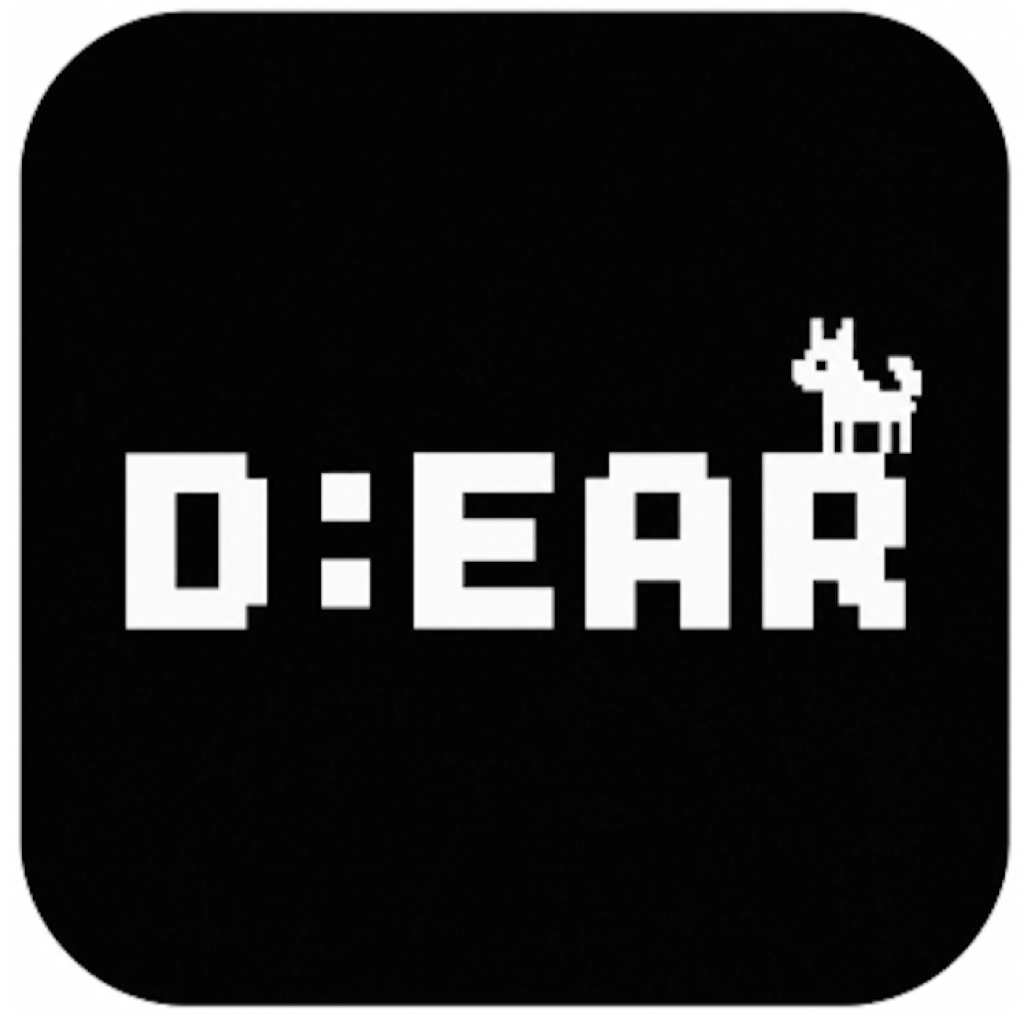
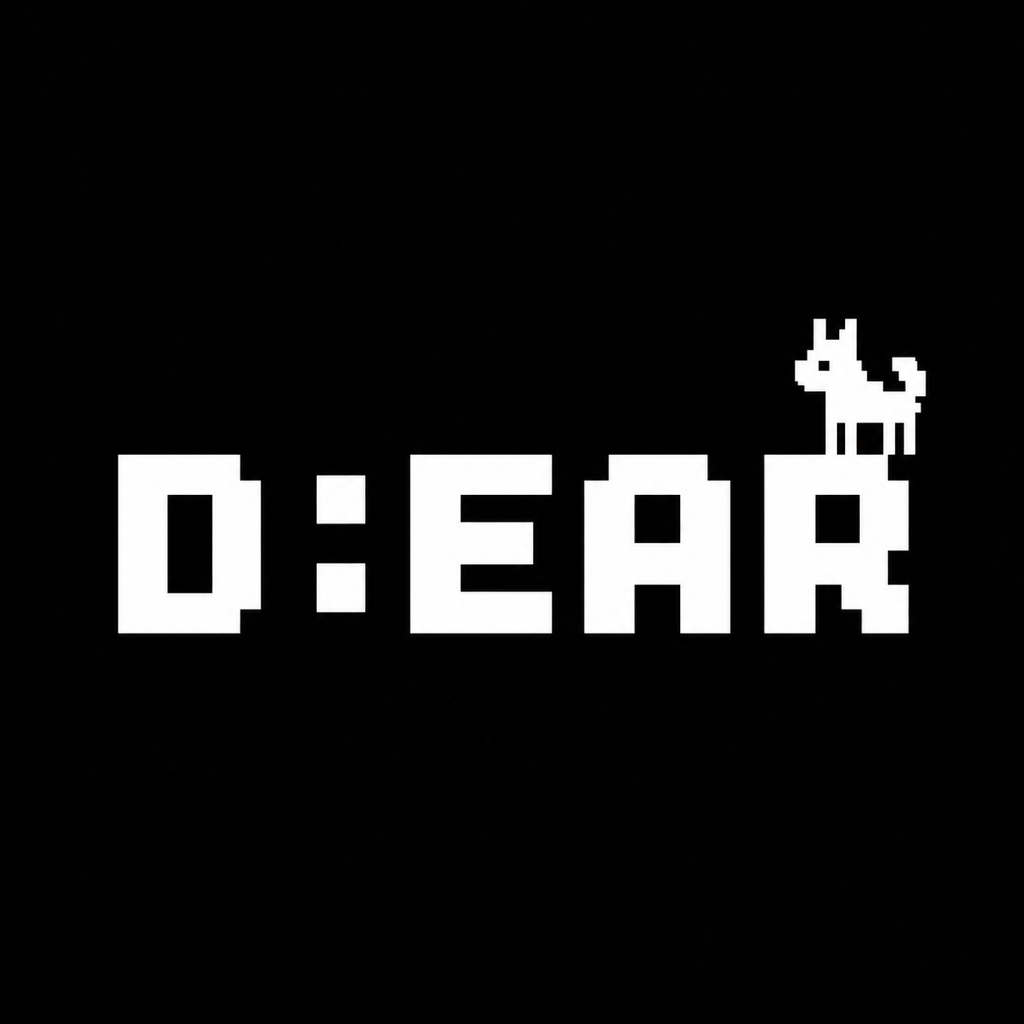
07.30 PM 05:30

diff --git a/src/index.css b/src/index.css
@@ -52,19 +52,13 @@ img {
 }
 
 .splash-logo {
-  width: 230px;
-  height: 160px;
-  overflow: hidden;
-  position: relative;
+  width: min(86vw, 360px);
 }
 
 .splash-logo img {
-  position: absolute;
-  width: 595px;
-  max-width: none;
-  left: 50%;
-  top: 50%;
-  transform: translate(-50%, -50%);
+  width: 100%;
+  height: auto;
+  object-fit: contain;
 }
 
 @keyframes splashOut {

diff --git a/src/components/brand/Brand.tsx b/src/components/brand/Brand.tsx
@@ -36,7 +36,7 @@ function PixelDeer({ className }: { className?: string }) {
 export function SplashLogo() {
   return (
     <div className="splash-logo" role="img" aria-label="D:EAR 앱 로고">
-      <img src="/dear.png" alt="" />
+      <img src="/dear-splash.png" alt="" />
     </div>
   )
 }
